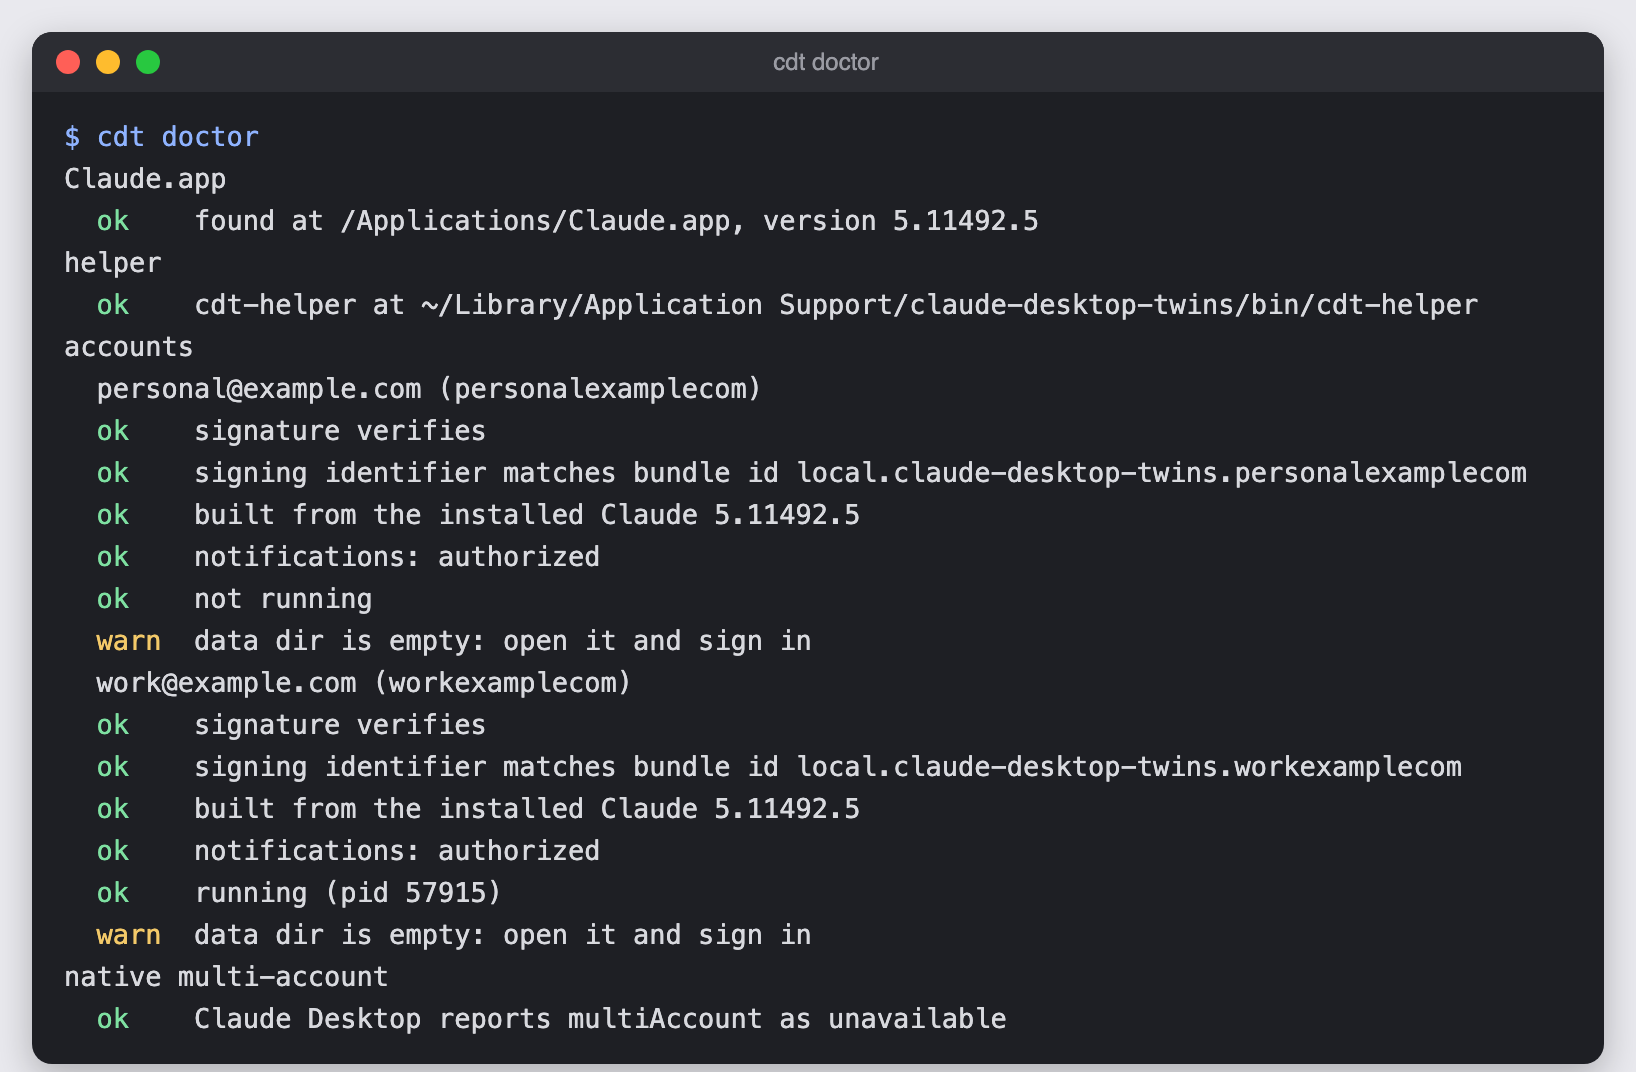
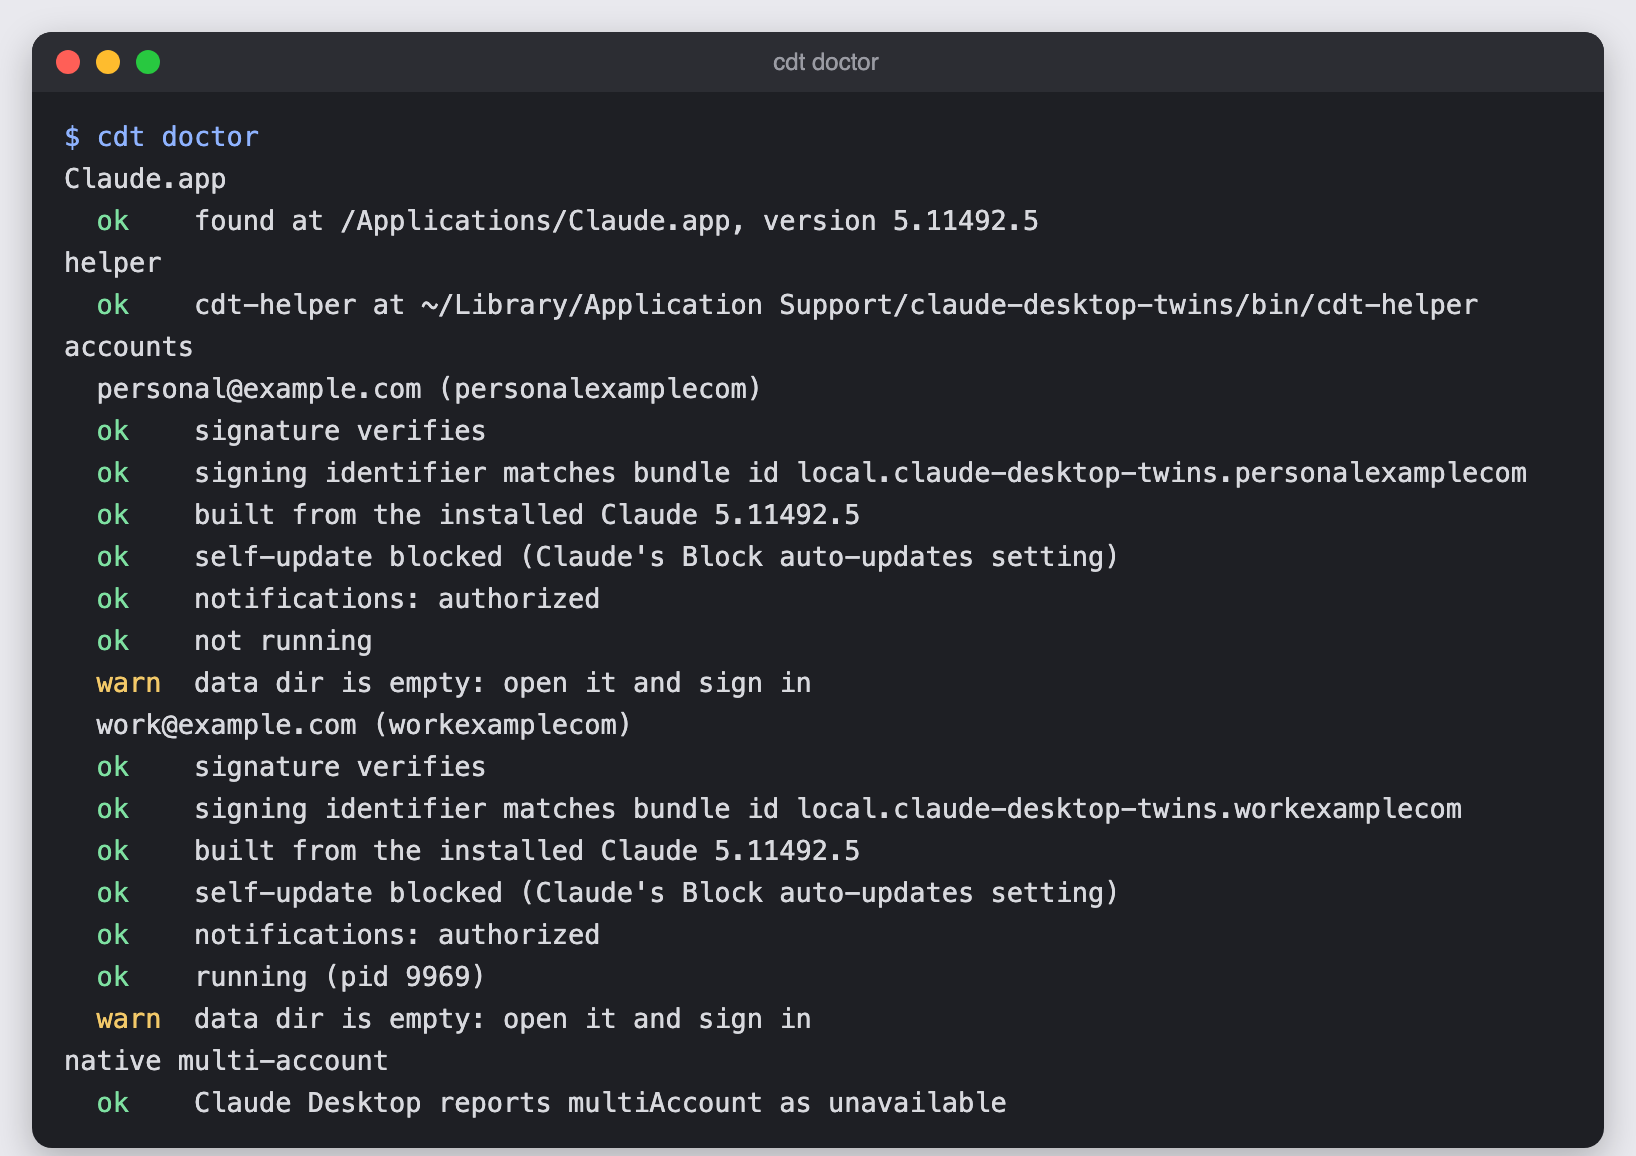
feat!: move sessions copy to Premium
- cdt sessions copy now points to Claude Desktop Twins Premium and
  changes nothing; sessions list and its --json stay in the free CLI
- README gains a Premium section; screenshots, e2e checklist and
  changelog follow; v0.1.0 keeps sessions copy under the MIT licence

Changed region(s): [[0.0312, 0.0308, 0.9352, 0.9851], [0.53, 0.9235, 0.6235, 0.9851], [0.4676, 0.0308, 0.53, 0.0616]]

diff --git a/lib/json.js b/lib/json.js
@@ -1,4 +1,4 @@
-// JSON reads and writes for session stores, run with `osascript -l JavaScript`.
+// JSON reads for session stores, run with `osascript -l JavaScript`.
 // plutil cannot parse every session file (it rejects escaped NUL characters), so all
 // session JSON goes through here.
 //
@@ -6,18 +6,12 @@
 //                                   id, originCwd or cwd, cliSessionId, separated by
 //                                   0x1f so empty fields survive a shell read
 //   archived <idx>                  archived ids, one per line (none if idx is missing)
-//   merge-archived <idx> <id>...    add ids not yet archived; prints the number added
 ObjC.import('Foundation');
 
 function readText(path) {
   const s = $.NSString.stringWithContentsOfFileEncodingError($(path), $.NSUTF8StringEncoding, null);
   if (s.isNil()) throw new Error('cannot read ' + path);
   return s.js;
-}
-
-function writeText(path, text) {
-  const ok = $(text).writeToFileAtomicallyEncodingError($(path), true, $.NSUTF8StringEncoding, null);
-  if (!ok) throw new Error('cannot write ' + path);
 }
 
 function exists(path) {
@@ -52,16 +46,5 @@ function run(argv) {
   const cmd = argv[0];
   if (cmd === 'scan') return scan(argv[1]);
   if (cmd === 'archived') return readIdx(argv[1]).archived.join('\n');
-  if (cmd === 'merge-archived') {
-    const idx = readIdx(argv[1]);
-    const have = {};
-    idx.archived.forEach((id) => { have[id] = true; });
-    let added = 0;
-    argv.slice(2).forEach((id) => {
-      if (!have[id]) { idx.archived.push(id); have[id] = true; added++; }
-    });
-    if (added > 0) writeText(argv[1], JSON.stringify(idx));
-    return String(added);
-  }
   throw new Error('unknown command: ' + cmd);
 }

diff --git a/README.md b/README.md
@@ -8,7 +8,7 @@ right account opens.
 - Keep work and personal accounts signed in side by side.
 - Switch accounts with Cmd-Tab, the Dock or Spotlight.
 - Get notifications per account, and turn them on or off per account.
-- Move Claude Code sessions from one account to another.
+- Move Claude Code sessions between accounts with [Premium](#premium) (coming soon).
 
 🇻🇳 **Tiếng Việt:** dùng nhiều tài khoản Claude Desktop cùng lúc trên một máy Mac, không
 cần đăng xuất. Xem [hướng dẫn tiếng Việt](#hướng-dẫn-tiếng-việt).
@@ -91,25 +91,23 @@ that `cdt list` marks as stale:
 cdt rebuild work@example.com
 ```
 
-### Move Claude Code sessions between accounts
+### See Claude Code sessions per account
 
-The target account must have opened its Code tab once. `default` is plain Claude.app.
+`default` is plain Claude.app.
 
 ```bash
-cdt sessions list work
-cdt sessions copy --from default --to work@example.com --cwd /projects/api --dry-run
-cdt sessions copy --from default --to work@example.com --cwd /projects/api
+cdt sessions list default
+cdt sessions list work --json
 ```
 
-A copy backs up the target first, never overwrites a session that is already there,
-and keeps archived sessions archived.
+![cdt sessions list for plain Claude.app](docs/screenshots/sessions.png)
 
-![cdt sessions list, then a dry run and a real copy into work@example.com](docs/screenshots/sessions.png)
+Copying sessions from one account to another is part of [Premium](#premium).
 
 ### Import an existing profile
 
 Adopt a data folder made by another launcher or by hand. The data folder of plain
-Claude.app cannot be imported: add an account and copy sessions into it instead.
+Claude.app cannot be imported: add an account instead.
 
 ```bash
 cdt import ~/Library/Application\ Support/SomeOtherLauncher/work --as work@example.com
@@ -139,9 +137,27 @@ cdt uninstall --purge-data                  # also data folders and session back
 brew uninstall claude-desktop-twins
 ```
 
-Commands that change or delete things (`rebuild`, `remove`, the `--to` of
-`sessions copy`) need the full account name. `open` and `sessions list` accept part of
-it.
+Commands that change or delete things (`rebuild`, `remove`, `icon`) need the full
+account name. `open` and `sessions list` accept part of it.
+
+## Premium
+
+Claude Desktop Twins Premium is a menu bar app for the same accounts, sold once. It is
+in development; the free CLI stays MIT and keeps everything above.
+
+- **Move Claude Code sessions** between accounts by drag and drop, with a preview, a
+  backup first, nothing overwritten and archived sessions kept archived.
+- **One-click update** of every account after a Claude update, asking before it stops
+  a running Claude Code session.
+- **Claude Code usage per account**: tokens and an estimated cost per day and per
+  5-hour block, counted on your Mac.
+- **Separate Claude Code per account**, so work settings, memory and transcripts stay
+  out of the personal account.
+- Account icons, health checks with fixes and session backups from a window.
+
+To hear when it ships, [watch this repository's releases](https://github.com/dakiquang/claude-desktop-twins/releases).
+Already using `cdt sessions copy` from v0.1.0? That version keeps working; it stays
+available under the MIT licence.
 
 ## How it works
 
@@ -180,10 +196,7 @@ a running Claude process on that folder and brings it forward instead.
   keeps working on its older version until you rebuild it.
 - The Code tab in every account shares `~/.claude`, `~/.claude.json` and the Claude
   Code keychain item. Settings, skills and transcripts are shared, and some account
-  details from one account can show up in another. Session copying relies on this
-  sharing.
-- `cdt sessions copy` relies on an undocumented folder layout checked up to Claude
-  5.11492.5. On a newer Claude it refuses to run unless you pass `--force`.
+  details from one account can show up in another.
 - macOS only.
 
 If Claude Desktop ships its own multi-account support, `cdt doctor` will say so, and
@@ -269,6 +282,9 @@ Mỗi lệnh `cdt add` tạo một app trong `~/Applications/Claude Desktop Twin
 gửi thông báo (chọn Allow). Mở từng app một lần và đăng nhập đúng tài khoản. Cần macOS 12
 trở lên, Claude Desktop trong `/Applications` và Xcode Command Line Tools
 (`xcode-select --install`).
+
+Chuyển session Claude Code giữa các tài khoản có trong bản [Premium](#premium) (đang phát
+triển).
 
 ### Câu hỏi thường gặp
 

diff --git a/docs/e2e-checklist.md b/docs/e2e-checklist.md
@@ -18,8 +18,8 @@ never paste real addresses into release notes).
 - [ ] Simulate a Claude update: `plutil -replace LocalSourceVersion -string 0.0.1 "<clone>/Contents/Info.plist"`
       then `codesign --force --sign - "<clone>"`. `cdt list` marks it stale with the
       rebuild command; `cdt rebuild <account>` makes it current.
-- [ ] `cdt sessions copy --from default --to work@example.com --dry-run`, then a real copy; restart
-      the account; copied sessions appear and archived ones stay archived.
+- [ ] `cdt sessions list default` and `cdt sessions list work --json` show the Code
+      sessions; `cdt sessions copy` points to Premium and changes nothing.
 - [ ] `cdt uninstall`, then `brew uninstall claude-desktop-twins`;
       `mdfind "kMDItemCFBundleIdentifier == 'local.claude-desktop-twins.*'"` prints nothing
       and `~/Applications/Claude Desktop Twins` is gone.

diff --git a/CHANGELOG.md b/CHANGELOG.md
@@ -13,6 +13,10 @@ All notable changes to this project are documented here. The format follows
 - `list --json`, `doctor --json` and `sessions list <account> --json`: machine-readable output with a `schema` number; `doctor --json` gives each check a stable id, a level and the fix command.
 - `icon set <account> <file.icns>` and `icon reset <account>`: an account's own Dock and Cmd-Tab icon, kept across rebuilds and removed with the account.
 
+### Removed
+
+- `sessions copy` moves to Claude Desktop Twins Premium; the command now says so and changes nothing. `sessions list` stays. v0.1.0 keeps `sessions copy` under the MIT licence.
+
 ## [0.1.0] - 2026-11-15
 
 ### Added
